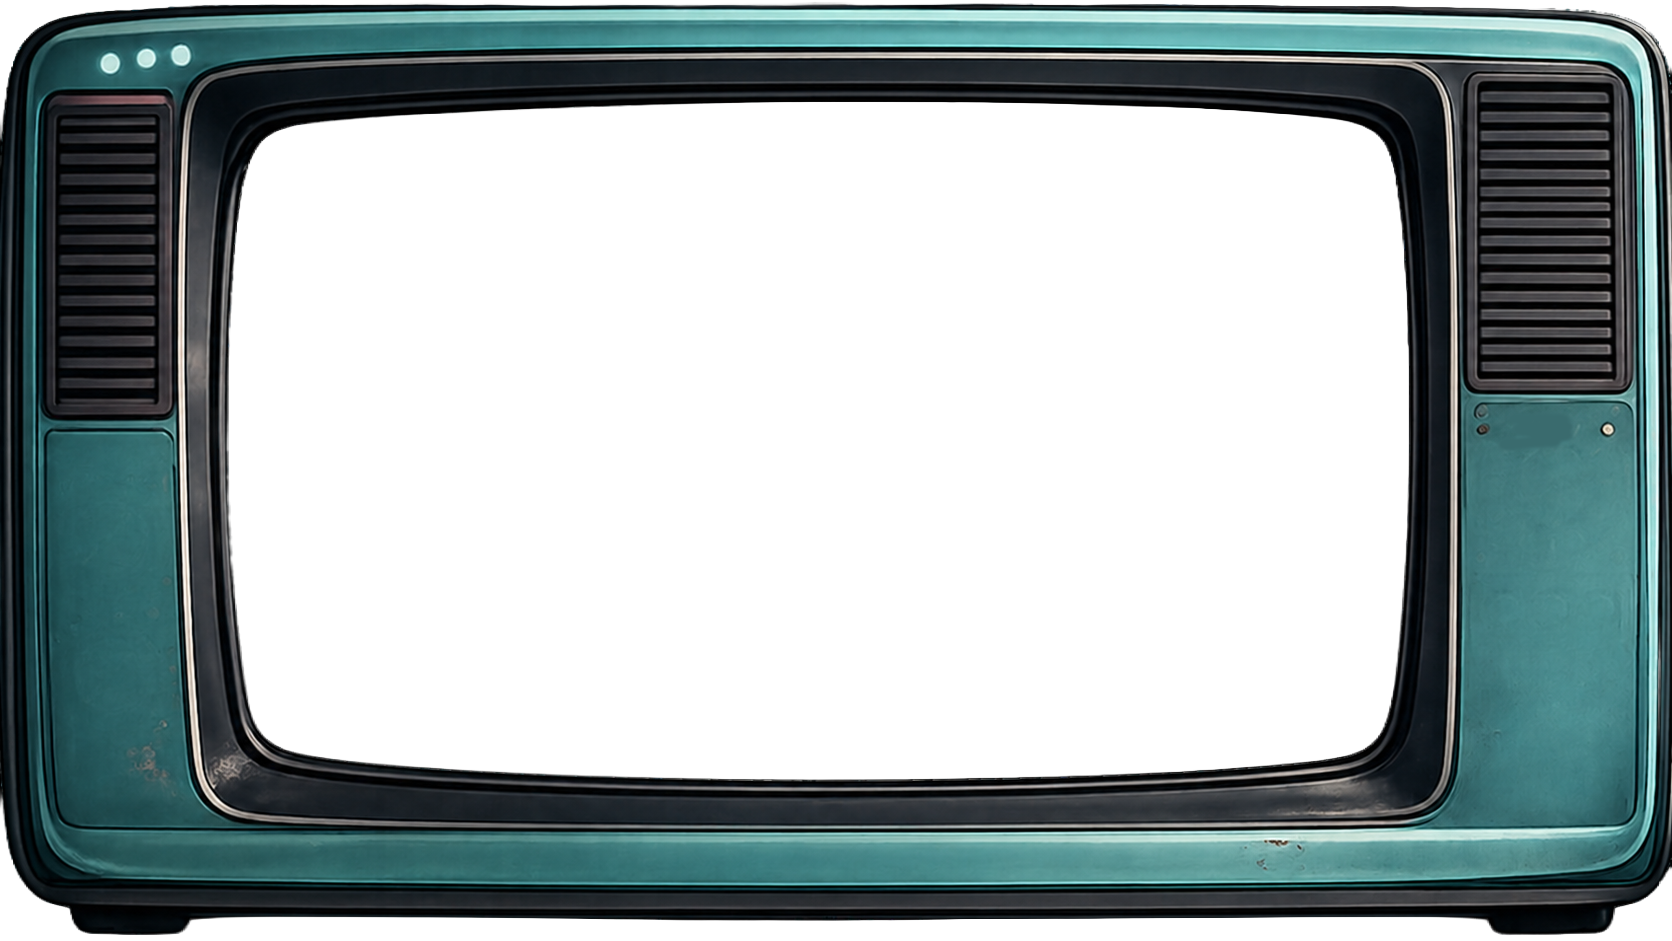
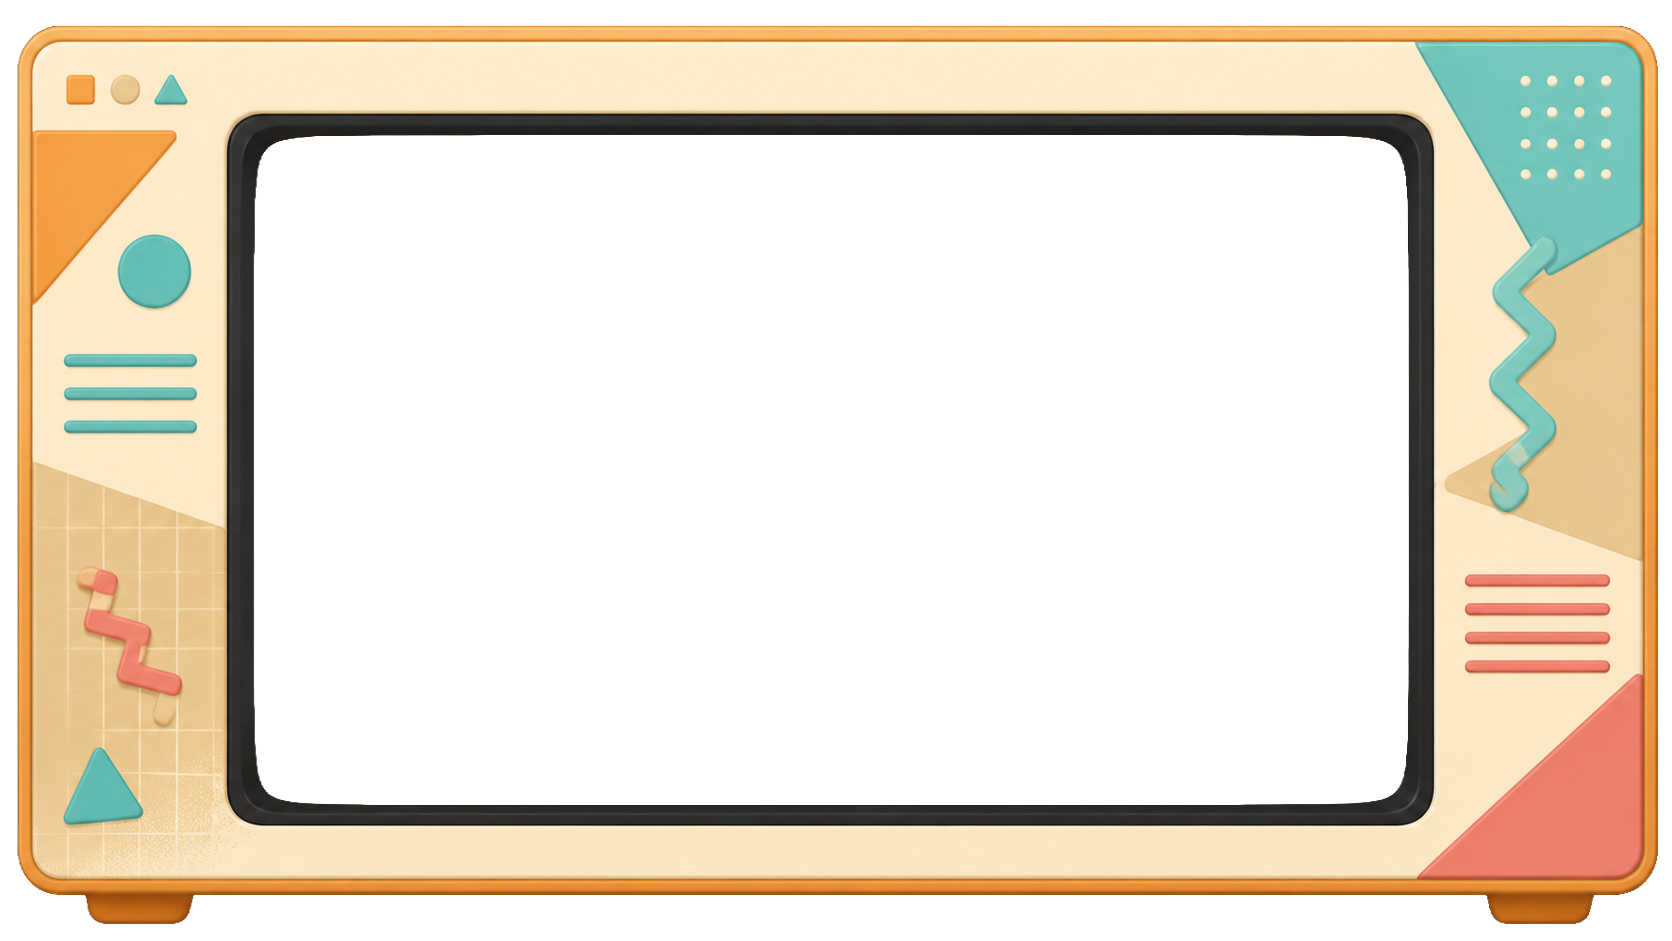
Changed padding and added frame options

diff --git a/flutter_data_test/lib/pages/youtube_page.dart b/flutter_data_test/lib/pages/youtube_page.dart
@@ -44,6 +44,8 @@ class _YoutubePageState extends State<YoutubePage> {
   bool isAccountMenuOpen = false;
   bool isFindingNext = false;
   DisplayMode selectedMode = DisplayMode.normal;
+  late Widget _playerWidget;
+  final _playerKey = GlobalKey();
 
   final channels = const [
     {
@@ -109,6 +111,23 @@ class _YoutubePageState extends State<YoutubePage> {
         }
         setState(() {});
       });
+    }
+
+    if (kIsWeb) {
+      _playerWidget = ypi.YoutubePlayer(
+        key: _playerKey,
+        controller: webController,
+        aspectRatio: 16 / 9,
+      );
+    } else {
+      _playerWidget = ypf.YoutubePlayerBuilder(
+        key: _playerKey,
+        player: ypf.YoutubePlayer(
+          controller: mobileController,
+          showVideoProgressIndicator: true,
+        ),
+        builder: (context, player) => player,
+      );
     }
   }
 
@@ -263,6 +282,11 @@ class _YoutubePageState extends State<YoutubePage> {
     super.dispose();
   }
 
+  bool get _isFrameActive =>
+      selectedMode == DisplayMode.retroTv ||
+      selectedMode == DisplayMode.nintendo ||
+      selectedMode == DisplayMode.oldTelevision;
+
   Widget buildVideoPlayer(Widget player) {
     return Center(
       child: ConstrainedBox(
@@ -270,9 +294,9 @@ class _YoutubePageState extends State<YoutubePage> {
         child: AspectRatio(
           aspectRatio: 16 / 9,
           child: RetroPanel(
-            padding: const EdgeInsets.all(18),
-            shadowOffset: const Offset(10, 10),
-            borderWidth: 5,
+            padding: _isFrameActive ? EdgeInsets.zero : const EdgeInsets.all(18),
+            shadowOffset: _isFrameActive ? Offset.zero : const Offset(10, 10),
+            borderWidth: _isFrameActive ? 0 : 5,
             child: Row(
               children: [
                 Expanded(child: _buildScreen(player)),
@@ -288,15 +312,18 @@ class _YoutubePageState extends State<YoutubePage> {
 
   Widget _buildScreen(Widget player) {
     return Container(
-      decoration: BoxDecoration(
-        border: Border.all(color: auroraInk, width: 4),
-        gradient: const LinearGradient(
-          begin: Alignment.topLeft,
-          end: Alignment.bottomRight,
-          colors: [auroraBlue, auroraYellow, auroraGreen],
-        ),
-      ),
+      decoration: _isFrameActive
+          ? null
+          : BoxDecoration(
+              border: Border.all(color: auroraInk, width: 4),
+              gradient: const LinearGradient(
+                begin: Alignment.topLeft,
+                end: Alignment.bottomRight,
+                colors: [auroraBlue, auroraYellow, auroraGreen],
+              ),
+            ),
       child: Stack(
+        clipBehavior: Clip.none,
         children: [
           Positioned.fill(child: ClipRect(child: player)),
           const Positioned.fill(
@@ -320,14 +347,19 @@ class _YoutubePageState extends State<YoutubePage> {
               ),
             ),
           ),
-          if (selectedMode == DisplayMode.retroTv)
-            Positioned.fill(
+          Positioned(
+              top: -18,
+              left: -13,
+              right: -17,
+              bottom: -35,
               child: IgnorePointer(
-                child: Image.asset(
-                  frameAssetMap[DisplayMode.retroTv]!,
-                  fit: BoxFit.fill,
-                  filterQuality: FilterQuality.high,
-                ),
+                child: _isFrameActive
+                    ? Image.asset(
+                        frameAssetMap[selectedMode]!,
+                        fit: BoxFit.fill,
+                        filterQuality: FilterQuality.high,
+                      )
+                    : const SizedBox.shrink(),
               ),
             ),
         ],
@@ -442,6 +474,28 @@ class _YoutubePageState extends State<YoutubePage> {
               });
             },
           ),
+          _DisplayChoice(
+            title: 'Nintendo',
+            value: DisplayMode.nintendo,
+            groupValue: selectedMode,
+            onChanged: (value) {
+              if (value == null) return;
+              setState(() {
+                selectedMode = value;
+              });
+            },
+          ),
+          _DisplayChoice(
+            title: 'Old Television',
+            value: DisplayMode.oldTelevision,
+            groupValue: selectedMode,
+            onChanged: (value) {
+              if (value == null) return;
+              setState(() {
+                selectedMode = value;
+              });
+            },
+          ),
         ],
       ),
     );
@@ -513,23 +567,6 @@ class _YoutubePageState extends State<YoutubePage> {
 
   @override
   Widget build(BuildContext context) {
-    Widget player;
-
-    if (kIsWeb) {
-      player = ypi.YoutubePlayer(
-        controller: webController,
-        aspectRatio: 16 / 9,
-      );
-    } else {
-      player = ypf.YoutubePlayerBuilder(
-        player: ypf.YoutubePlayer(
-          controller: mobileController,
-          showVideoProgressIndicator: true,
-        ),
-        builder: (context, player) => player,
-      );
-    }
-
     return Scaffold(
       key: _scaffoldKey,
       appBar: RetroAppBar(
@@ -592,7 +629,7 @@ class _YoutubePageState extends State<YoutubePage> {
               child: Column(
                 crossAxisAlignment: CrossAxisAlignment.stretch,
                 children: [
-                  buildVideoPlayer(player),
+                  buildVideoPlayer(_playerWidget),
                   const SizedBox(height: 28),
                   _buildNowPlayingPanel(),
                   const SizedBox(height: 22),

diff --git a/flutter_data_test/lib/models/frame_options.dart b/flutter_data_test/lib/models/frame_options.dart
@@ -1,5 +1,7 @@
-enum DisplayMode { normal, retroTv }
+enum DisplayMode { normal, retroTv, nintendo, oldTelevision }
 
-const Map<DisplayMode, String> frameAssetMap = {
-  DisplayMode.retroTv: 'assets/images/retro_tv.png',
+const frameAssetMap = {
+  DisplayMode.retroTv:       'assets/images/retro_tv.png',
+  DisplayMode.nintendo:      'assets/images/nintendo.png',      // ← add
+  DisplayMode.oldTelevision: 'assets/images/old_television.png', // ← add
 };
